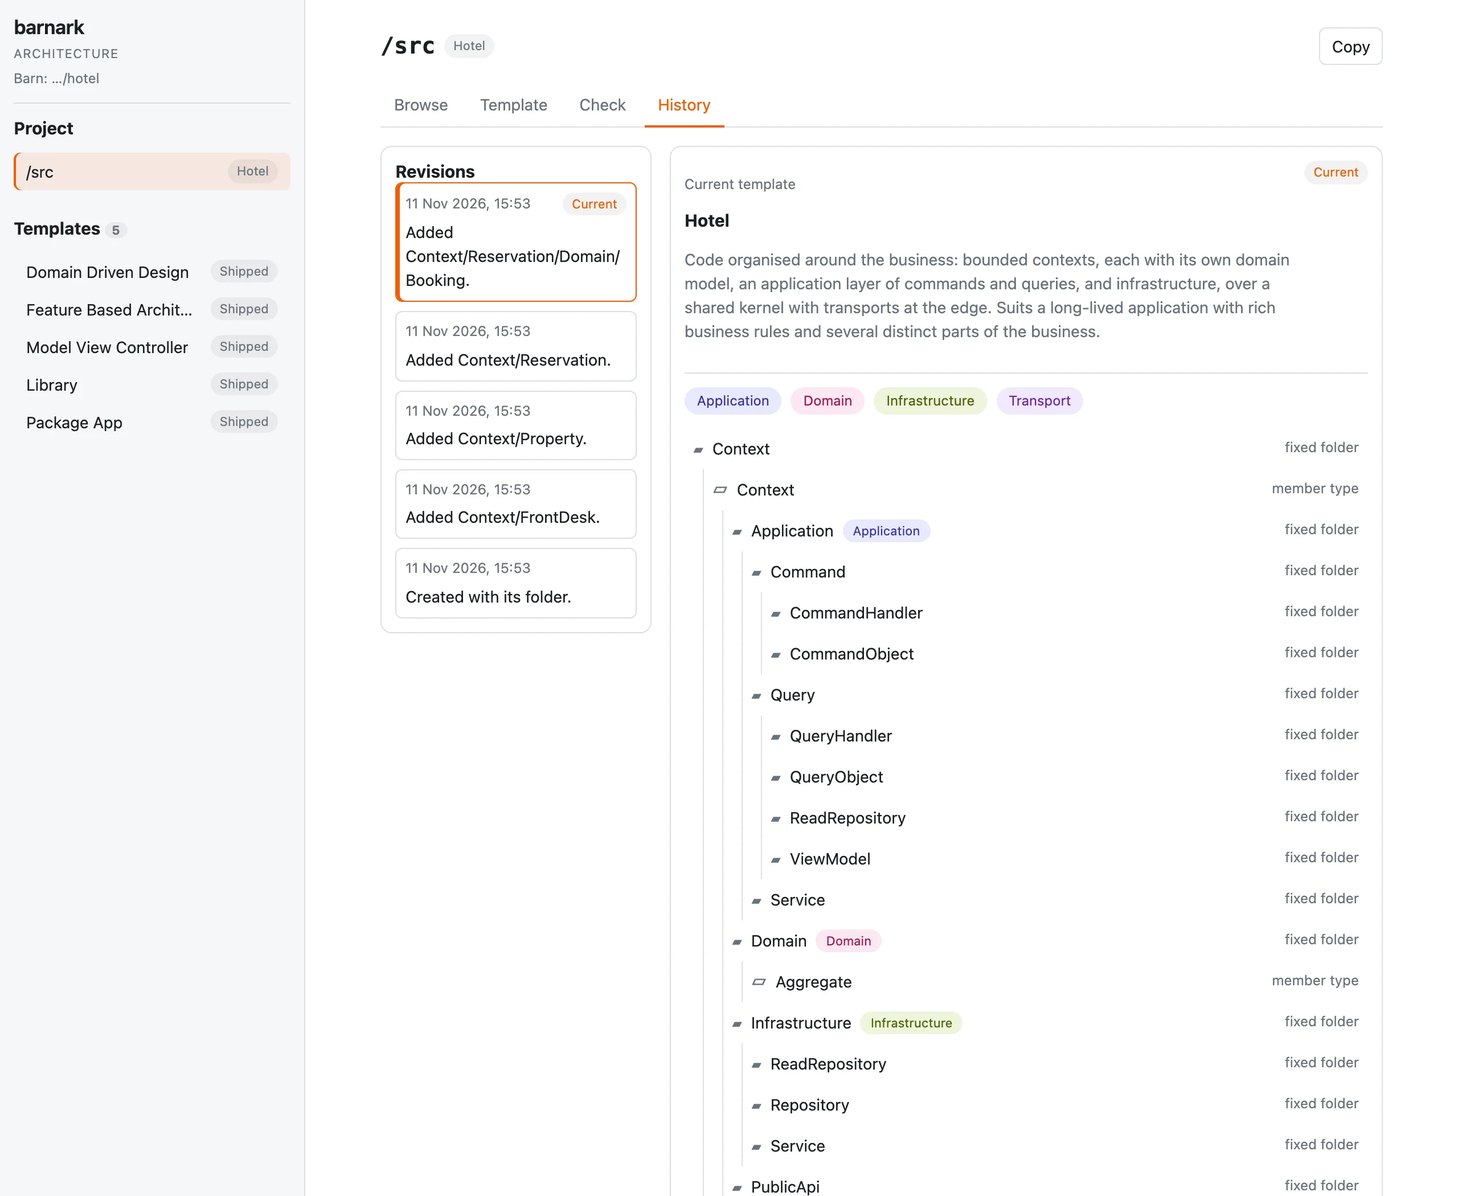
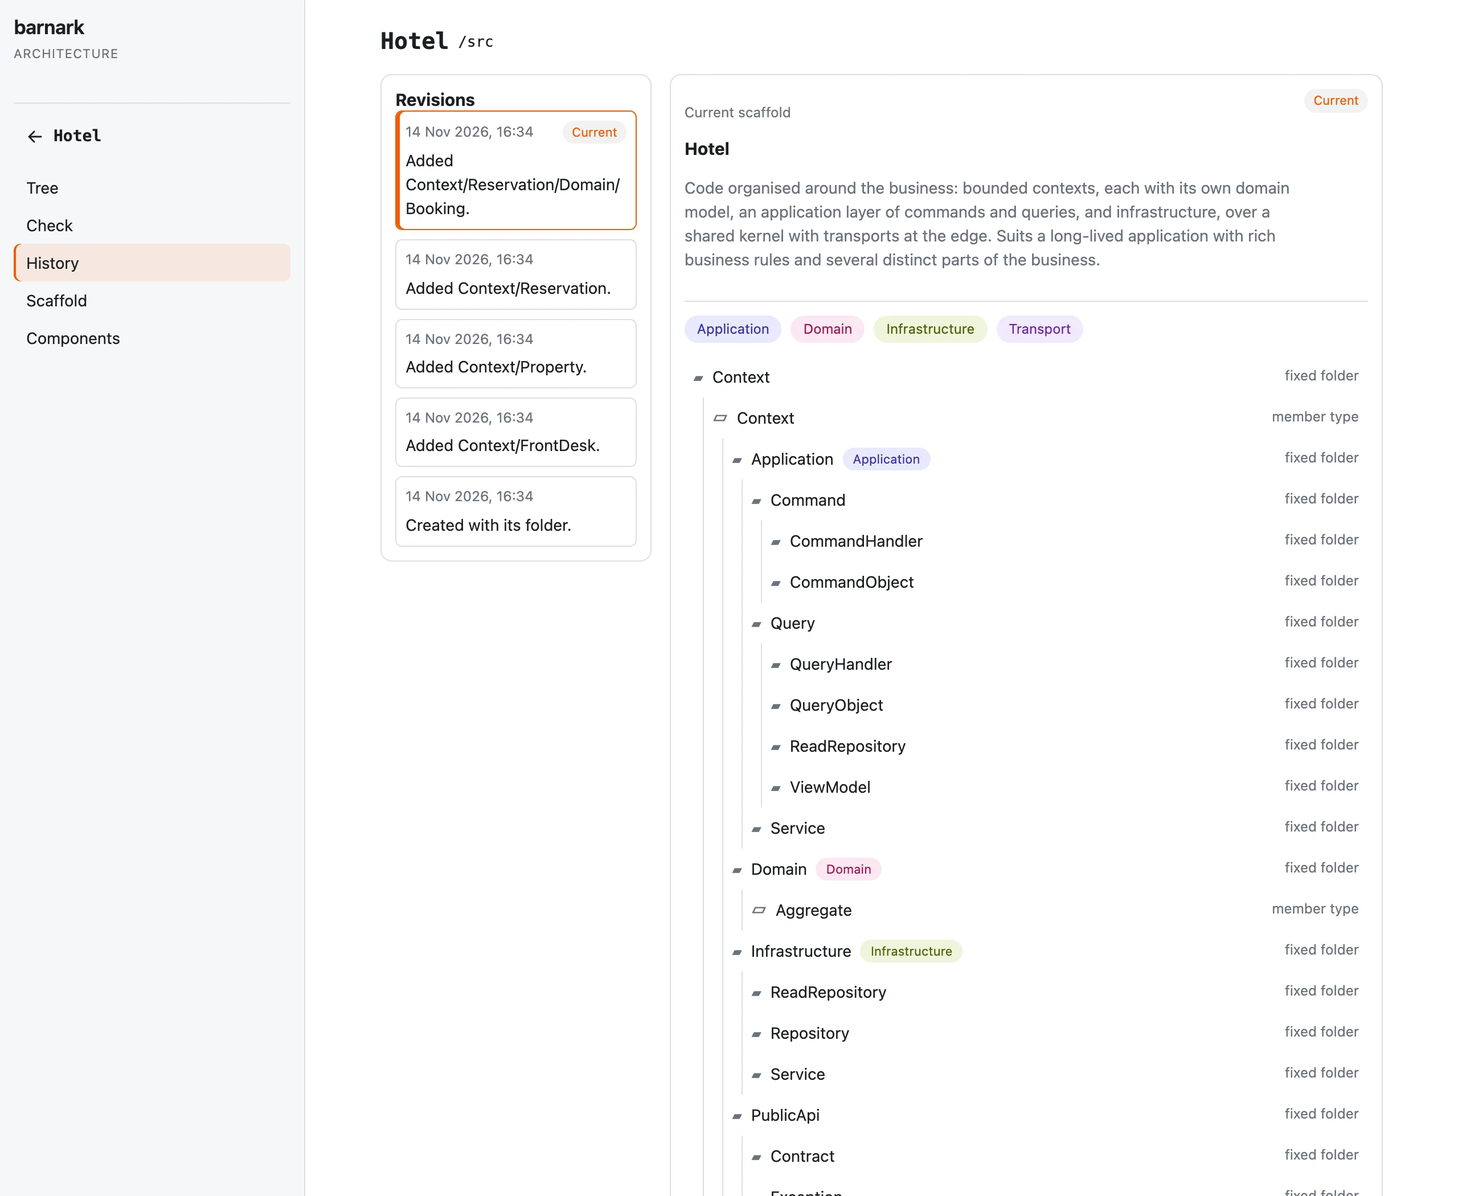
Refresh public scaffold and file-rule captures

diff --git a/docs/gui.html b/docs/gui.html
@@ -31,8 +31,8 @@
       <nav class="docs-nav" aria-label="Documentation"><h2>Start</h2><ul><li><a href="index.html">Overview</a></li><li><a href="templates.html">Templates, bound and unbound</a></li></ul><h2>Tasks</h2><ul><li><a href="choose.html">Choose and clone an architecture</a></li><li><a href="grow.html">Add folders to your template</a></li><li><a href="check.html">Check the project</a></li><li><a href="yours.html">Keep templates of your own</a></li><li><a href="history.html">Revisions and history</a></li></ul><h2>Tools</h2><ul><li><a href="gui.html" aria-current="page">The browser app</a></li><li><a href="cli.html">Command reference</a></li><li><a href="php.html">From PHP</a></li><li><a href="install.html">Installation</a></li><li><a href="data.html">Where your data lives</a></li></ul><h2>Reference</h2><ul><li><a href="glossary.html">Glossary</a></li><li><a href="troubleshooting.html">When something goes wrong</a></li></ul></nav>
       <article class="docs-article">
         <h1>The browser app</h1>
-        <p class="lede">Everything Barnark does, in a browser.</p>
-<p>The browser app does everything the command line does: copy a scaffold (the command line says template) into the project,
+        <p class="lede">Design scaffolds, grow arks and check their folders in a browser.</p>
+<p>The browser app lets you copy a scaffold (the command line says template) into the project,
 create arks from it, browse an ark’s tree, add what its scaffold offers, run the check and keep scaffolds of your own. It is the easiest way to use Barnark.</p>
 <h2 id="start">Start it <a class="anchor" href="#start" aria-label="Link to this section">#</a></h2>
 <pre><code><span class="p">$ </span>vendor/bin/barnark gui                       <span class="c"># http://localhost:8081, opens your browser</span>
@@ -46,7 +46,7 @@ there, the page says so and offers to make one in the folder it was started in. 
 name. Choose one and its views slide in under a back arrow carrying its name: <strong>Tree</strong>, <strong>Check</strong>,
 <strong>History</strong>, <strong>Scaffold</strong>, the ark’s own scaffold, and <strong>Components</strong>. <strong>Your scaffolds</strong> holds the scaffolds you have
 copied, and <strong>Barnark scaffolds</strong> the shipped ones, which are read-only. An ark’s own scaffold is reached through its ark, never
-listed. Click a Barnark scaffold to see its tree, or one of yours to see its <a href="history.html">History</a>. The panel can be dragged to
+listed. Click a scaffold to see its tree and components. The panel can be dragged to
 whatever width you like, and a double-click on the divider puts it back.</p>
 <h2 id="clone">Create an ark <a class="anchor" href="#clone" aria-label="Link to this section">#</a></h2>
 <p>An ark is made only from one of Your scaffolds. Choose a Barnark scaffold, such as <em>Domain Driven Design</em> or <em>Blank
@@ -54,23 +54,24 @@ project</em> (one empty folder), and <strong>Copy to Your scaffolds</strong> und
 <strong>Create ark</strong> asks for the ark’s name, its folder and the folder’s base directory, and says what it will do: “Creates the
 ark Shop from a copy of My DDD. Later changes to My DDD won’t reach it.” The ark’s own scaffold takes the ark’s name, and its <strong>Scaffold</strong> tab says “Copied from My DDD, revision 1”. A project can have
 many arks. Deleting one of Your scaffolds asks first, and says that copies made from it, arks included, keep working.</p>
-<h2 id="browse">Browse <a class="anchor" href="#browse" aria-label="Link to this section">#</a></h2>
+<figure><div class="shot"><div class="shot-bar" aria-hidden="true"><i></i><i></i><i></i><span>Barnark · Your scaffolds</span></div><picture><source media="(prefers-color-scheme: dark)" srcset="../assets/screens/ark-scaffolds-dark.webp"><img src="../assets/screens/ark-scaffolds.webp" width="2560" height="1720" loading="lazy" alt="Arks, Your scaffolds and Barnark scaffolds in the sidebar. My Hotel was copied from Domain Driven Design in Barnark v0.3.0, with its tagged tree below."></picture></div><figcaption>Copy a Barnark scaffold into Your scaffolds, then create an ark from it.</figcaption></figure>
+<h2 id="browse">Tree <a class="anchor" href="#browse" aria-label="Link to this section">#</a></h2>
 <p>The tree shows a folder’s folders, never its files. Wherever the scaffold has a member type for a folder you name, it offers a
 button for it, on the directory’s own row and inside the directory once it is open. Click, for example, <strong>Create New Context</strong>,
 give the new folder a name, and the scaffold’s whole structure for it is made underneath.</p>
 <p>A member is part of the template, so adding or deleting one makes a new revision, with a reason Barnark writes, such as “Added
 Context/Billing.” The delete dialog says so before a member goes.</p>
-<figure><div class="shot"><div class="shot-bar" aria-hidden="true"><i></i><i></i><i></i><span>Barnark · Browse</span></div><img src="../assets/screens/ark-browse.webp" width="2560" height="1720" loading="lazy" alt="The Browse tab: the Context folder holds FrontDesk, Property and Reservation, and Reservation’s Domain holds a Booking aggregate. Buttons offer Create New Aggregate and Create New Context. Folders carry coloured tags such as Application, Domain and Infrastructure."></div><figcaption>Browse, with a button for each thing the template lets you add.</figcaption></figure>
+<figure><div class="shot"><div class="shot-bar" aria-hidden="true"><i></i><i></i><i></i><span>Barnark · Tree</span></div><picture><source media="(prefers-color-scheme: dark)" srcset="../assets/screens/ark-browse-dark.webp"><img src="../assets/screens/ark-browse.webp" width="2560" height="1720" loading="lazy" alt="The Tree view: the Context folder holds FrontDesk, Property and Reservation, and Reservation’s Domain holds a Booking aggregate. Buttons offer Create New Aggregate and Create New Context. Folders carry coloured tags such as Application, Domain and Infrastructure."></picture></div><figcaption>Tree, with a button for each thing the template lets you add.</figcaption></figure>
 <h2 id="template">Scaffold <a class="anchor" href="#template" aria-label="Link to this section">#</a></h2>
 <p>The <strong>Scaffold</strong> tab shows the ark’s scaffold’s current tree with what each folder means. A folder of the
 scaffold’s own offers <strong>+</strong>, to add a folder of yours inside it with a name and a meaning, and <strong>Meaning</strong>, to
 change what it means. <strong>Add a folder</strong> and <strong>Change what /src means</strong> do the same for the ark’s folder itself.
 Each is a new revision. A collection holds only members, so it offers no <strong>+</strong>, and nothing inside a member offers anything.</p>
-<figure><div class="shot"><div class="shot-bar" aria-hidden="true"><i></i><i></i><i></i><span>Barnark · Template</span></div><img src="../assets/screens/ark-template.webp" width="2560" height="2000" loading="lazy" alt="The Template tab for Hotel, showing its tree with each folder’s meaning and its kind: fixed folder, member type or member. Buttons at the top read Add a folder and Change what /src means."></div></figure>
+<figure><div class="shot"><div class="shot-bar" aria-hidden="true"><i></i><i></i><i></i><span>Barnark · Scaffold</span></div><picture><source media="(prefers-color-scheme: dark)" srcset="../assets/screens/ark-template-dark.webp"><img src="../assets/screens/ark-template.webp" width="2560" height="2000" loading="lazy" alt="Hotel’s Scaffold view, with its origin in My Hotel, tagged folders and member types, and each folder’s meaning. Buttons at the top read Add a folder and Change what /src means."></picture></div></figure>
 <h2 id="check">Check <a class="anchor" href="#check" aria-label="Link to this section">#</a></h2>
 <p>The <strong>Check</strong> tab runs the <a href="check.html">check</a>. An unexpected folder offers <strong>Add to scaffold</strong>:
 give it a meaning and it becomes part of the ark’s scaffold as it is, and the check runs again.</p>
-<figure><div class="shot"><div class="shot-bar" aria-hidden="true"><i></i><i></i><i></i><span>Barnark · Check</span></div><img src="../assets/screens/ark-check-unexpected.webp" width="2560" height="1240" loading="lazy" alt="The Check tab reporting that the folder /src/Scratch is not part of Hotel, with an Add to template button."></div></figure>
+<figure><div class="shot"><div class="shot-bar" aria-hidden="true"><i></i><i></i><i></i><span>Barnark · Check</span></div><picture><source media="(prefers-color-scheme: dark)" srcset="../assets/screens/ark-check-unexpected-dark.webp"><img src="../assets/screens/ark-check-unexpected.webp" width="2560" height="1240" loading="lazy" alt="The Check tab reporting that the folder /src/Scratch is not part of Hotel, with an Add to scaffold button."></picture></div></figure>
 <h2 id="history">History <a class="anchor" href="#history" aria-label="Link to this section">#</a></h2>
 <p>The <strong>History</strong> tab lists the ark’s scaffold’s revisions and shows each as a read-only tree. <a href="history.html">Revisions and history</a> has the rest.</p>
 <h2 id="components">Components <a class="anchor" href="#components" aria-label="Link to this section">#</a></h2>
@@ -105,7 +106,7 @@ command line: <code>template:add-list</code>, <code>template:remove-folder</code
 <code>template:add-folder</code> and <code>template:change-meaning</code>.</p>
 <h2 id="tags">Tags <a class="anchor" href="#tags" aria-label="Link to this section">#</a></h2>
 <p>A template can tag its folders, as Domain Driven Design tags its layers <code>Application</code>, <code>Domain</code>,
-<code>Infrastructure</code> and <code>Transport</code>. A folder’s tags show as coloured labels beside its name, in Browse and in a
+<code>Infrastructure</code> and <code>Transport</code>. A folder’s tags show as coloured labels beside its name, in Tree and in a
 template’s tree, and pointing at one shows what the tag means. Above a template’s current tree, a bar holds each of its tags: choose one to
 see only the folders with that tag and the folders above them, every context’s <code>Application</code> among them, and choose it again to
 see the whole tree.</p>

diff --git a/docs/check.html b/docs/check.html
@@ -69,7 +69,7 @@ Unexpected — on disk, not expected here
 
 Take a folder into the template with `barnark template:add-folder &lt;path&gt; &lt;meaning&gt;`, or add it as a member with `barnark template:new`.</code></pre>
 <p>For each, you decide. Take it into the template, saying what belongs there (<code>template:add-folder</code>, or
-<strong>Add to template</strong> in the browser app), or remove the folder, or leave it showing as an issue.</p>
+<strong>Add to scaffold</strong> in the browser app), or remove the folder, or leave it showing as an issue.</p>
 <h3 id="missing">Missing <a class="anchor" href="#missing" aria-label="Link to this section">#</a></h3>
 <p>A folder the template expects that isn’t on disk:</p>
 <pre><code><span class="p">$ </span>rm -rf src/Context/Reservation/Application
@@ -144,6 +144,7 @@ Files — in a folder whose tag has a rule that does not allow them
 <p>A rule for a tag its template no longer declares is reported as well, and <code>rule:remove</code> clears it. These are
 findings only, and only for an ark. The browser app lists them under <strong>File rules</strong> in <strong>Check</strong>; the
 tags and rules themselves are edited on the command line.</p>
+<figure><div class="shot"><div class="shot-bar" aria-hidden="true"><i></i><i></i><i></i><span>Barnark · Check</span></div><picture><source media="(prefers-color-scheme: dark)" srcset="../assets/screens/ark-file-rules-dark.webp"><img src="../assets/screens/ark-file-rules.webp" width="2560" height="1240" loading="lazy" alt="File rules reports notes.txt in Reservation’s tagged Domain folder: its name matches neither *.php nor *.ts."></picture></div><figcaption>The File rules group explains which tag and name patterns the file breaks.</figcaption></figure>
 <h2 id="explicit">Check a directory against a shipped template <a class="anchor" href="#explicit" aria-label="Link to this section">#</a></h2>
 <p>To check a folder that isn’t the bound one, name a shipped template first and the directory second. There is no record of
 members to read, so only the folders the template settles on its own are applied.</p>
@@ -177,9 +178,9 @@ Unexpected — on disk, not expected here
  [ERROR] 6 inconsistency(ies) found.</code></pre>
 <h2 id="gui">In the browser app <a class="anchor" href="#gui" aria-label="Link to this section">#</a></h2>
 <p>The <strong>Check</strong> tab runs the same check. <strong>Re-run</strong> checks again, and each unexpected folder offers
-<strong>Add to template</strong>: give it a meaning and it becomes part of the template as it is, and the check runs again.</p>
-<figure><div class="shot"><div class="shot-bar" aria-hidden="true"><i></i><i></i><i></i><span>Barnark · Check</span></div><img src="../assets/screens/ark-check.webp" width="2560" height="1040" loading="lazy" alt="The Check tab for the hotel project, with a green tick and the words “Conformant — no inconsistencies found.” A Re-run button is at the right."></div><figcaption>A conforming folder.</figcaption></figure>
-<figure><div class="shot"><div class="shot-bar" aria-hidden="true"><i></i><i></i><i></i><span>Barnark · Check</span></div><img src="../assets/screens/ark-check-unexpected.webp" width="2560" height="1240" loading="lazy" alt="The Check tab reporting one inconsistency: the folder /src/Scratch is not part of Hotel. The row has an Add to template button."></div><figcaption>An unexpected folder, and the button to take it into the template.</figcaption></figure>
+<strong>Add to scaffold</strong>: give it a meaning and it becomes part of the template as it is, and the check runs again.</p>
+<figure><div class="shot"><div class="shot-bar" aria-hidden="true"><i></i><i></i><i></i><span>Barnark · Check</span></div><picture><source media="(prefers-color-scheme: dark)" srcset="../assets/screens/ark-check-dark.webp"><img src="../assets/screens/ark-check.webp" width="2560" height="1240" loading="lazy" alt="The Check tab for the hotel project, with a green tick and the words “Conformant — no inconsistencies found.” A Re-run button is at the right."></picture></div><figcaption>A conforming folder.</figcaption></figure>
+<figure><div class="shot"><div class="shot-bar" aria-hidden="true"><i></i><i></i><i></i><span>Barnark · Check</span></div><picture><source media="(prefers-color-scheme: dark)" srcset="../assets/screens/ark-check-unexpected-dark.webp"><img src="../assets/screens/ark-check-unexpected.webp" width="2560" height="1240" loading="lazy" alt="The Check tab reporting one inconsistency: the folder /src/Scratch is not part of Hotel. The row has an Add to scaffold button."></picture></div><figcaption>An unexpected folder, and the button to take it into the template.</figcaption></figure>
 <p>Next: <a href="yours.html">keep templates of your own</a>.</p>
         <div class="docs-next"><a href="grow.html">← Add folders to your template</a><a href="yours.html">Keep templates of your own →</a></div>
       </article>

diff --git a/index.html b/index.html
@@ -42,8 +42,8 @@
       </div>
       <div class="wrap wide hero-shot">
         <figure class="shot">
-          <div class="shot-bar" aria-hidden="true"><i></i><i></i><i></i><span>Barnark · Browse</span></div>
-          <img src="assets/screens/ark-browse.webp" width="2560" height="1720" alt="The Barnark browser app for a hotel project. An ark, src, follows Hotel, its own copy of Domain Driven Design. Its tree is open: the Context folder holds FrontDesk, Property and Reservation, and Reservation’s Domain holds a Booking aggregate. Dashed buttons offer Create New Aggregate and Create New Context where the template allows them.">
+          <div class="shot-bar" aria-hidden="true"><i></i><i></i><i></i><span>Barnark · Tree</span></div>
+          <picture><source media="(prefers-color-scheme: dark)" srcset="assets/screens/ark-browse-dark.webp"><img src="assets/screens/ark-browse.webp" width="2560" height="1720" alt="The Barnark browser app for a hotel project. Hotel is an ark at /src, made from the team’s copy of Domain Driven Design. Its tree is open: the Context folder holds FrontDesk, Property and Reservation, and Reservation’s Domain holds a Booking aggregate. Dashed buttons offer Create New Aggregate and Create New Context where the template allows them."></picture>
         </figure>
       </div>
     </section>
@@ -117,7 +117,7 @@
           <figure>
             <div class="shot">
               <div class="shot-bar" aria-hidden="true"><i></i><i></i><i></i><span>Barnark · Check</span></div>
-              <img src="assets/screens/ark-check-unexpected.webp" width="2560" height="1240" loading="lazy" alt="The Check tab for the hotel project. It says one inconsistency was found: the folder /src/Scratch is not part of Hotel, with a button to add it to the template.">
+              <picture><source media="(prefers-color-scheme: dark)" srcset="assets/screens/ark-check-unexpected-dark.webp"><img src="assets/screens/ark-check-unexpected.webp" width="2560" height="1240" loading="lazy" alt="The Check tab for the hotel project. It says one inconsistency was found: the folder /src/Scratch is not part of Hotel, with a button to add it to the template."></picture>
             </div>
             <figcaption>A folder made by hand, with no place in the template, and the button to take it in.</figcaption>
           </figure>

diff --git a/docs/templates.html b/docs/templates.html
@@ -70,7 +70,7 @@ of its own is a <em>leaf</em>: it is where the template stops and your code begi
 <p>Adding a member copies its member type’s shape into the template as folders of the member’s own, so adding one is a change to the
 template and makes a revision. Because every member has the same shape as its member type, Barnark doesn’t let you add a folder inside
 a member, or change one member alone.</p>
-<figure><div class="shot"><div class="shot-bar" aria-hidden="true"><i></i><i></i><i></i><span>Barnark · Template</span></div><img src="../assets/screens/ark-template.webp" width="2560" height="2000" loading="lazy" alt="The Template tab for the hotel project. It shows Hotel’s tree: Context, a fixed folder, holds a member type also called Context, and then the members FrontDesk, Property and Reservation. Each row has its meaning and says whether it is a fixed folder, a member type or a member. Tags appear as coloured labels."></div><figcaption>The Template tab: fixed folders, a member type and its members, each with its meaning.</figcaption></figure>
+<figure><div class="shot"><div class="shot-bar" aria-hidden="true"><i></i><i></i><i></i><span>Barnark · Scaffold</span></div><picture><source media="(prefers-color-scheme: dark)" srcset="../assets/screens/ark-template-dark.webp"><img src="../assets/screens/ark-template.webp" width="2560" height="2000" loading="lazy" alt="Hotel’s Scaffold view shows its origin in My Hotel and the Context member type, with tagged Application, Domain and Infrastructure folders and their meanings."></picture></div><figcaption>The Scaffold view: the origin, fixed folders, member types and their meanings.</figcaption></figure>
 <aside class="callout note"><p><strong>Note.</strong> The command line calls what a folder offers a <em>slot</em>: <code>template:offers</code> lists them and <code>template:new</code> takes one by name. A slot is a member type.</p></aside>
 <h2 id="tags">Tags <a class="anchor" href="#tags" aria-label="Link to this section">#</a></h2>
 <p>A template can tag its folders, to say what part each plays. Domain Driven Design tags its layers: <code>Application</code>,

diff --git a/docs/history.html b/docs/history.html
@@ -42,7 +42,7 @@ with your code, keeps the files.</p>
 <p>The <strong>History</strong> tab of the browser app lists the template’s revisions, newest first, with the time and the
 reason, and marks the current one. Choose a revision to see it as a read-only tree of its fixed folders, member types and members.
 An old revision can be looked at, and is not restored.</p>
-<figure><div class="shot"><div class="shot-bar" aria-hidden="true"><i></i><i></i><i></i><span>Barnark · History</span></div><img src="../assets/screens/ark-history.webp" width="2560" height="2100" loading="lazy" alt="The History tab for Hotel. A list of five revisions, newest first, such as “Added Context/Reservation/Domain/Booking.” and “Created with its folder.”, with the current one marked. Beside it is the template’s current tree, with its description, its four tags and its folders."></div><figcaption>Revisions on the left, and the template as it reads now.</figcaption></figure>
+<figure><div class="shot"><div class="shot-bar" aria-hidden="true"><i></i><i></i><i></i><span>Barnark · History</span></div><picture><source media="(prefers-color-scheme: dark)" srcset="../assets/screens/ark-history-dark.webp"><img src="../assets/screens/ark-history.webp" width="2560" height="2100" loading="lazy" alt="The History tab for Hotel. A list of five revisions, newest first, such as “Added Context/Reservation/Domain/Booking.” and “Created with its folder.”, with the current one marked. Beside it is the template’s current tree, with its description, its four tags and its folders."></picture></div><figcaption>Revisions on the left, and the template as it reads now.</figcaption></figure>
 <p>The command line has no history command. The files are plain JSON in <code>.barn/barnark/catalogue/</code>, and
 <a href="data.html">Where your data lives</a> says which is which. Don’t edit them by hand.</p>
         <div class="docs-next"><a href="yours.html">← Keep templates of your own</a><a href="gui.html">The browser app →</a></div>

diff --git a/README.md b/README.md
@@ -20,3 +20,21 @@ templates, choose, grow, check, yours, history, gui, cli, php, install, data, gl
 troubleshooting). Every command shown was run for real in a disposable barn with the released
 packages, and its output pasted in with paths shortened by "…". Retake them when a command's output
 changes.
+
+## Captures retaken 2026-11-14
+
+Real Chrome captures at 1280 CSS pixels and 2× resolution, in light and dark themes, from
+a disposable hotel barn using published Barnark core 0.3.0 and GUI 0.2.10. The local barn path
+is hidden, following the main site's capture convention; tool content is unchanged.
+
+- `ark-browse`: Hotel’s Tree at `/src`, with three contexts, Booking and layer tags.
+- `ark-scaffolds`: the three sidebar groups, My Hotel’s shipped origin and tagged scaffold.
+- `ark-template`: Hotel’s Scaffold, its My Hotel origin, meanings and member types.
+- `ark-history`: five revisions and the current scaffold.
+- `ark-check`: a conforming ark.
+- `ark-check-unexpected`: an unexpected `/src/Scratch` and Add to scaffold.
+- `ark-file-rules`: `notes.txt` violates Domain’s `*.php` / `*.ts` rule.
+
+Each `-dark` companion is selected by the page’s theme; existing published filenames stay stable.
+Seed and capture scripts are retained in `/private/tmp/barnark-stage4-scratch/`.
+The main Barn site keeps the same `ark-browse` pair for existing README embed URLs.
